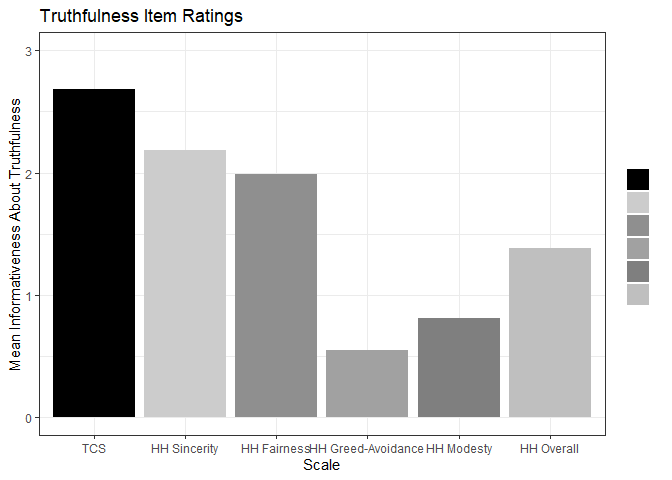
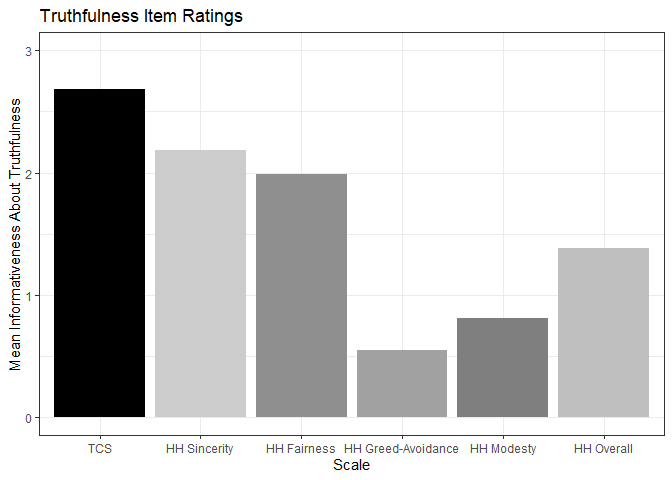
more plots, finished.

diff --git a/Portfolio10.md b/Portfolio10.md
@@ -39,11 +39,44 @@ Item_Ratings_Long1 <- Item_Ratings_Long1 %>%
 
 Item_Ratings_Long1$ggplot_name <- factor(Item_Ratings_Long1$ggplot_name, levels = c("TCS", "HH Sincerity", "HH Fairness", "HH Greed-Avoidance", "HH Modesty", "HH Overall"))
 
+ci_upper <- function(x) {
+  sd <- sd(x)
+  se <- sd / sqrt(length(x))
+  ci <- mean(x) + (1.96 * se)
+  return(ci)
+}
+
+ci_lower <- function(x) {
+  sd <- sd(x)
+  se <- sd / sqrt(length(x))
+  ci <- mean(x) - (1.96 * se)
+  return(ci)
+}
+
+TCS_upper <- ci_upper(Item_Ratings$TCS_Tru)
+TCS_lower <- ci_lower(Item_Ratings$TCS_Tru)
+
+Sin_upper <- ci_upper(Item_Ratings$Sin_Tru)
+Sin_lower <- ci_lower(Item_Ratings$Sin_Tru)
+
+Fair_upper <- ci_upper(Item_Ratings$Fair_Tru)
+Fair_lower <- ci_lower(Item_Ratings$Fair_Tru)
+
+Greed_upper <- ci_upper(Item_Ratings$Greed_Tru)
+Greed_lower <- ci_lower(Item_Ratings$Greed_Tru)
+
+Mod_upper <- ci_upper(Item_Ratings$Mod_Tru)
+Mod_lower <- ci_lower(Item_Ratings$Mod_Tru)
+
+HH_upper <- ci_upper(Item_Ratings$HH_Tru)
+HH_lower <- ci_lower(Item_Ratings$HH_Tru)
+
 #make plot
 
 ggplot(Item_Ratings_Long1, aes(x = ggplot_name, y = (Avg_Tru_Rating / 152), fill = ggplot_name)) +
   geom_col() +
   theme_bw() +
+  theme(legend.position = "none") +
   coord_cartesian(ylim = c(0, 3)) +
   scale_fill_manual(label = NULL, values = c("black", "gray80", "gray56", "gray63", "gray50", "gray75")) +
   labs(title = "Truthfulness Item Ratings",
@@ -55,12 +88,12 @@ ggplot(Item_Ratings_Long1, aes(x = ggplot_name, y = (Avg_Tru_Rating / 152), fill
 ![](Portfolio10_files/figure-gfm/overall-truthfulness-1.png)<!-- -->
 
 This plot shows that TCS items are more face-valid for truthfulness than
-HH items are. But what about comparing the difference between
-truthfulness vs. other relevant constructs?
+HH items are. But what about comparing the difference between the
+validity of items on truthfulness vs. other relevant constructs?
 
 I created a variable to reflect such a difference called “Pure
 Truthfulness.” This is a difference score, such that ratings above zero
-on this variable indicate that the item reflects truthfulness MORE THAN
+on this variable indicate that an item reflects truthfulness MORE THAN
 some other construct (e.g., manipulativeness, law-breaking, greed,
 modesty) that may ostensibly be related to these items.
 
@@ -84,12 +117,54 @@ Item_Ratings_Long2 <- Item_Ratings_Long2 %>%
 
 Item_Ratings_Long2$ggplot_name <- factor(Item_Ratings_Long2$ggplot_name, levels = c("TCS", "HH Sincerity", "HH Fairness", "HH Greed-Avoidance", "HH Modesty", "HH Overall"))
 
+
+
+TCpure_upper <- ci_upper(Item_Ratings$TCpure)
+TCpure_lower <- ci_lower(Item_Ratings$TCpure)
+Sinpure_upper <- ci_upper(Item_Ratings$Sinpure)
+Sinpure_lower <- ci_lower(Item_Ratings$Sinpure)
+Fairpure_upper <- ci_upper(Item_Ratings$Fairpure)
+Fairpure_lower <- ci_lower(Item_Ratings$Fairpure)
+Greedpure_upper <- ci_upper(Item_Ratings$Greedpure)
+Greedpure_lower <- ci_lower(Item_Ratings$Greedpure)
+Modpure_upper <- ci_upper(Item_Ratings$Modpure)
+Modpure_lower <- ci_lower(Item_Ratings$Modpure)
+HHpure_upper <- ci_upper(Item_Ratings$HHpure)
+HHpure_lower <- ci_lower(Item_Ratings$HHpure)
+
 #make plot
 
 ggplot(Item_Ratings_Long2, aes(x = ggplot_name, y = (Avg_Pure_Rating / 152), fill = ggplot_name)) +
   geom_col() +
   theme_bw() +
+  theme(legend.position = "none") +
   coord_cartesian(ylim = c(-3, 3)) +
+  scale_fill_manual(label = NULL, values = c("black", "gray80", "gray56", "gray63", "gray50", "gray75")) +
+  labs(title = "Truthfulness Purity Item Ratings",
+       x = "Scale",
+       y = "Mean Informativeness About Truthfulness",
+       fill = NULL)
+```
+
+![](Portfolio10_files/figure-gfm/pure-truthfulness-1.png)<!-- -->
+
+This plot reveals that, not only do people rate TCS items to reflect
+truthfulness more than other constructs, it is the only scale (of those
+included in this study) which does so!
+
+One more plot: let’s look at these as violins.
+
+``` r
+#Overall Truthfulness
+
+ggplot(Item_Ratings_Long1, aes(x = ggplot_name, y = Avg_Tru_Rating, fill = ggplot_name)) +
+  geom_violin() +
+  theme_bw() +
+  theme(legend.position = "none") +
+  coord_cartesian(ylim = c(0, 3)) +
+  stat_summary(fun = "mean",
+               geom = "crossbar",
+               na.rm = TRUE) +
   scale_fill_manual(label = NULL, values = c("black", "gray80", "gray56", "gray63", "gray50", "gray75")) +
   labs(title = "Truthfulness Item Ratings",
        x = "Scale",
@@ -97,4 +172,24 @@ ggplot(Item_Ratings_Long2, aes(x = ggplot_name, y = (Avg_Pure_Rating / 152), fil
        fill = NULL)
 ```
 
-![](Portfolio10_files/figure-gfm/pure-truthfulness-1.png)<!-- -->
+![](Portfolio10_files/figure-gfm/violin-tcs-1.png)<!-- -->
+
+``` r
+#Pure Truthfulness
+
+ggplot(Item_Ratings_Long2, aes(x = ggplot_name, y = Avg_Pure_Rating, fill = ggplot_name)) +
+  geom_violin() +
+  theme_bw() +
+  theme(legend.position = "none") +
+  coord_cartesian(ylim = c(-3, 3)) +
+  stat_summary(fun = "mean",
+               geom = "crossbar",
+               na.rm = TRUE) +
+  scale_fill_manual(label = NULL, values = c("black", "gray80", "gray56", "gray63", "gray50", "gray75")) +
+  labs(title = "Truthfulness Purity Item Ratings",
+       x = "Scale",
+       y = "Mean Informativeness About Truthfulness",
+       fill = NULL)
+```
+
+![](Portfolio10_files/figure-gfm/violin-tcs-2.png)<!-- -->
